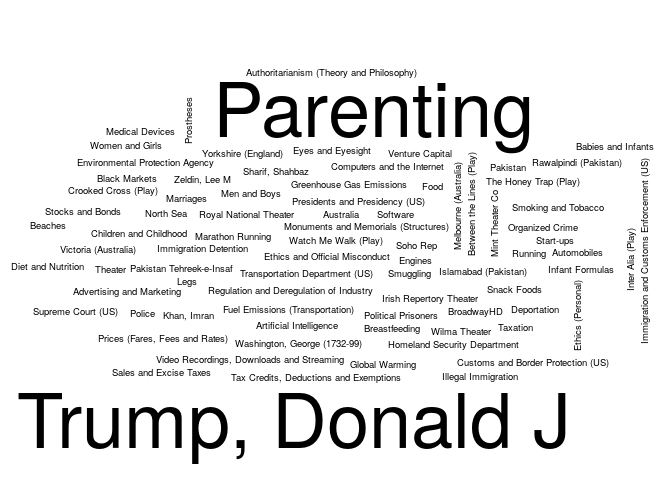
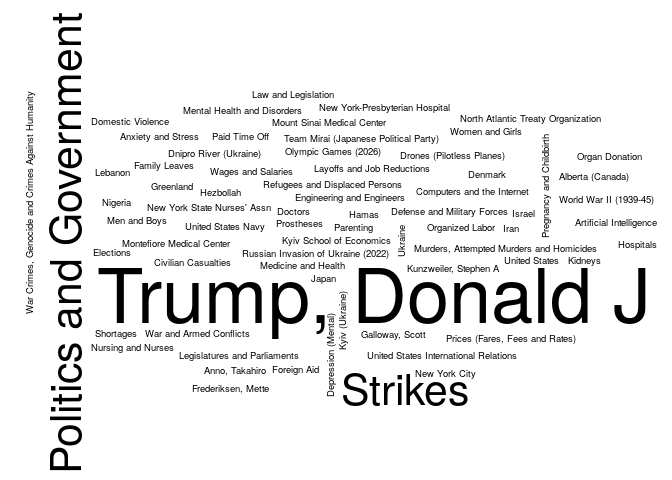
Updating the NYT report

Changed region(s): [[0.0, 0.0312, 0.9688, 1.0]]

diff --git a/03-nytimes/README.md b/03-nytimes/README.md
@@ -5,7 +5,7 @@ The following is an example of how to use the [NYTimes
 API](https://developer.nytimes.com/) to get a list of articles related
 to a particular term. Here we are searching articles that include the
 term `"health"`, and that were published up to seven days ago since
-2026-02-16.
+2026-02-23.
 
 ``` r
 # Preparing a function to use the GET method with the NYTimes API
@@ -83,25 +83,25 @@ colnames(tab) <- c("Keyword", "# Articles")
 knitr::kable(tab, row.names = FALSE)
 ```
 
-| Keyword                                  | \# Articles |
-|:-----------------------------------------|------------:|
-| Parenting                                |          10 |
-| Trump, Donald J                          |          10 |
-| United States Politics and Government    |          10 |
-| Advertising and Marketing                |           5 |
-| Artificial Intelligence                  |           5 |
-| Australia                                |           5 |
-| Authoritarianism (Theory and Philosophy) |           5 |
-| Automobiles                              |           5 |
-| Babies and Infants                       |           5 |
-| Beaches                                  |           5 |
-| Between the Lines (Play)                 |           5 |
-| Black Markets                            |           5 |
-| Breastfeeding                            |           5 |
-| BroadwayHD                               |           5 |
-| Children and Childhood                   |           5 |
-| Computers and the Internet               |           5 |
-| Crooked Cross (Play)                     |           5 |
-| Customs and Border Protection (US)       |           5 |
-| Deportation                              |           5 |
-| Diet and Nutrition                       |           5 |
+| Keyword                               | \# Articles |
+|:--------------------------------------|------------:|
+| Trump, Donald J                       |          15 |
+| Politics and Government               |          10 |
+| Strikes                               |          10 |
+| United States Politics and Government |          10 |
+| Alberta (Canada)                      |           5 |
+| Anno, Takahiro                        |           5 |
+| Anxiety and Stress                    |           5 |
+| Artificial Intelligence               |           5 |
+| Civilian Casualties                   |           5 |
+| Computers and the Internet            |           5 |
+| Defense and Military Forces           |           5 |
+| Denmark                               |           5 |
+| Depression (Mental)                   |           5 |
+| Dnipro River (Ukraine)                |           5 |
+| Doctors                               |           5 |
+| Domestic Violence                     |           5 |
+| Drones (Pilotless Planes)             |           5 |
+| Elections                             |           5 |
+| Engineering and Engineers             |           5 |
+| Family Leaves                         |           5 |
